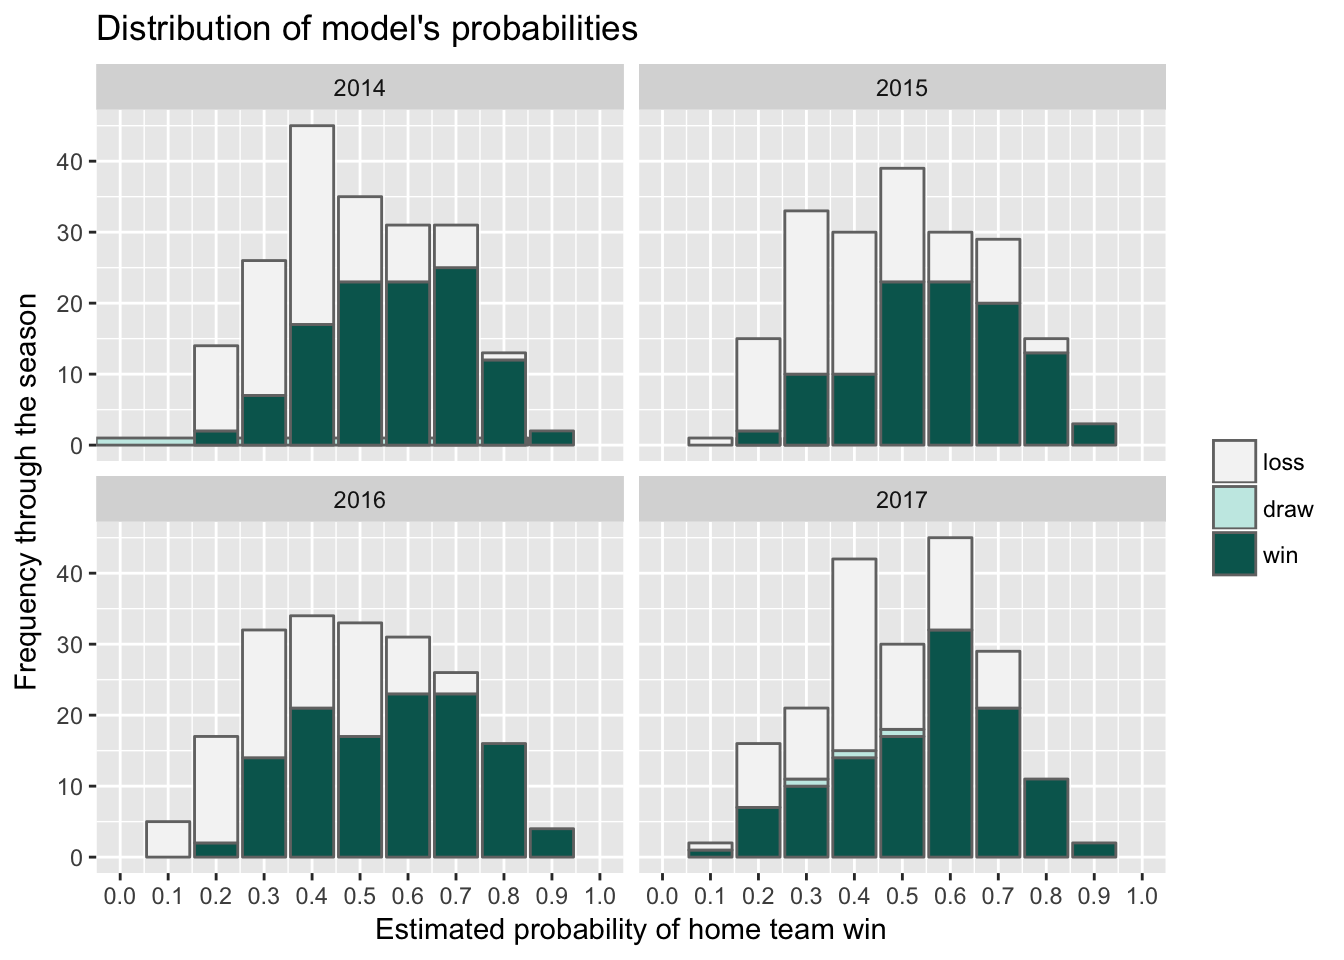
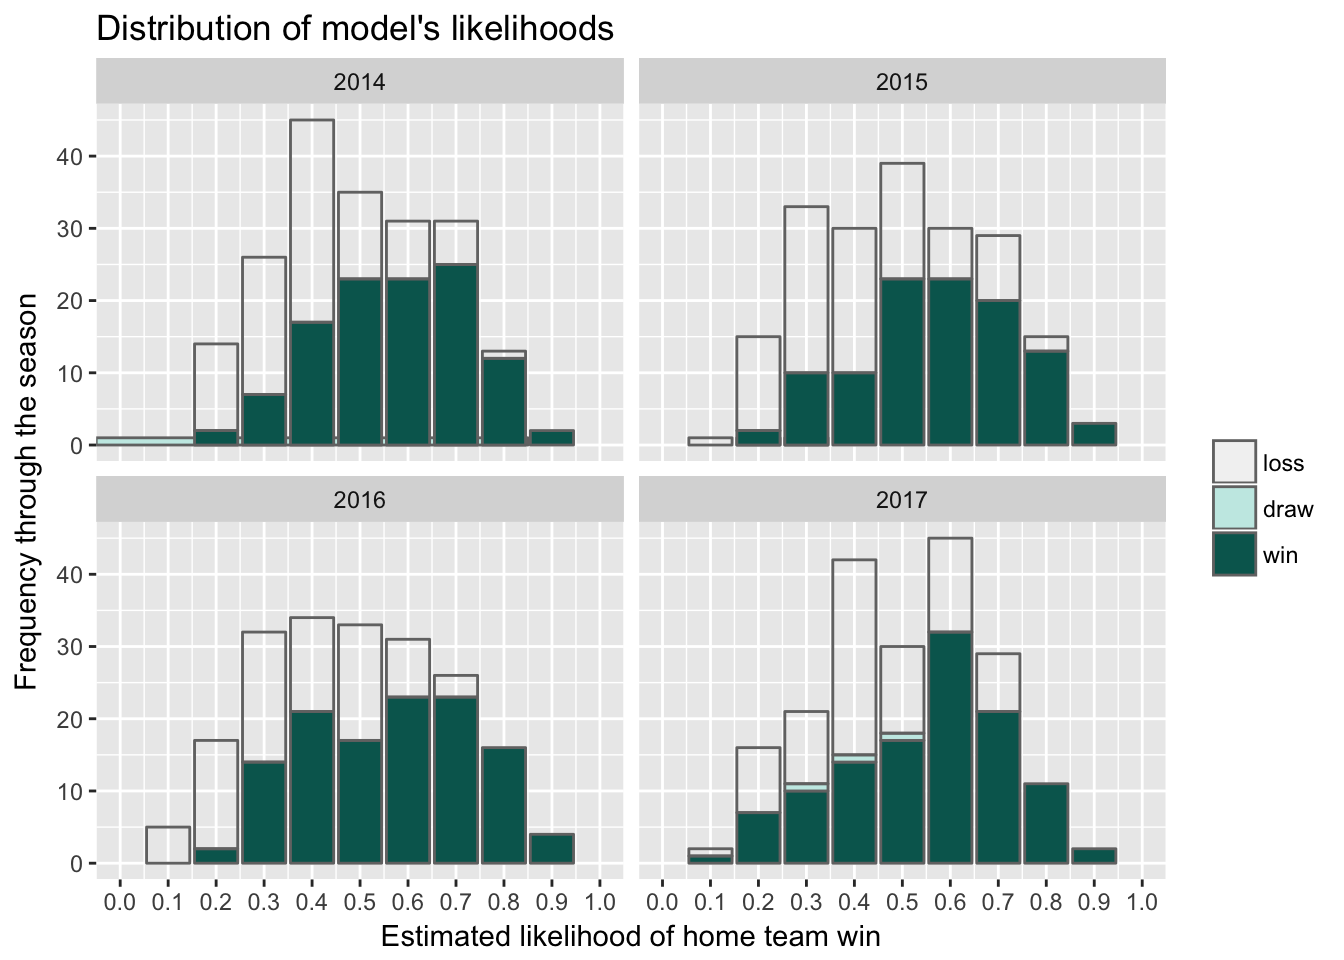
Revisions to AFL Tipping V1

diff --git a/public/2018/03/12/afl-tipping-mark-1/index.html b/public/2018/03/12/afl-tipping-mark-1/index.html
@@ -48,7 +48,7 @@
   <h1> AFL Tipping Mark 1 </h1>
 
   <div id=sub-header>
-    James Northrop · 2018/03/12 · 10 minute read
+    James Northrop · 2018/03/12 · 13 minute read
   </div>
 
   <div class="entry-content">
@@ -94,9 +94,6 @@
 </li>
 <li>The number of days since each team’s previous match, which is usually between 6 and 8 days.</li>
 </ul>
-<p><strong>Scoring Accuracy</strong><br />
-Losing teams tend to see only about half of their scoring shots converted to goals, whereas winning teams tend to see 55% or more of their scoring shots converted as goals.</p>
-<p><img src="../../../../post/2018-03-12-afl-tipping-mark-1_files/figure-html/Scoring%20accuracy%20plot-1.png" width="672" /></p>
 </div>
 <div id="the-tipping-model" class="section level2">
 <h2>The Tipping Model</h2>
@@ -107,35 +104,32 @@ Losing teams tend to see only about half of their scoring shots converted to goa
 <p>As it happened, Port Adelaide won the match by 28 points, so the model updated the ratings of Sydney and Port Adelaide to 1648 and 1549, an adjustment of 19 points up or down for both teams. If Port Adelaide had won by even more, the adjustment would be even more.</p>
 <p>The tipping model is a variation on the commonly used <a href="https://en.wikipedia.org/wiki/Elo_rating_system">Elo rating system</a>, variations of which are used by FIFA for their world rankings and the popular Nate Silver’s <a href="https://fivethirtyeight.com/features/how-we-calculate-nba-elo-ratings/">FiveThirtyEight</a>. My model was adapted from these sites and in particular from <a href="https://thearcfooty.com/2016/12/29/introducing-the-arcs-ratings-system/">The Arc Footy, graphed</a> site. As The Arc suggests, Elo is a solid and relatively simple general purpose model that produces good estimates of margins and likelihood of winning, though it is less accurate than more advanced algorithms.</p>
 <p><strong>Ratings Ladder at the end of 2017 Home and Away Season</strong></p>
-<p>This chart shows the ratings at the end of the 2017 Home and Away Season, i.e. before the finals. AFL fans may be surprised to see that Richmond is only fourth on this ladder, but it is worth remembering that Richmond were only 3rd on the ladder with a modest percentage of 118% (flattered by 2 convincing wins in the last 2 rounds). In summary, Richmond won almost all of the games it was expected to but had fewer strong wins. It may also surprise to see Sydney second on the rankings when they finished 6th on the AFL ladder. However, Sydney started the sesaon quite slowly and finished very strongly with a percentage of 127%.</p>
+<p>This chart shows the ratings at the end of the 2017 Home and Away Season, i.e. before the finals. AFL fans may be surprised to see that Richmond is only fourth on this ladder, but it is worth remembering that Richmond were only 3rd on the official AFL ladder with a modest percentage of 118% (flattered by 2 convincing wins in the last 2 rounds). In summary, Richmond won almost all of the games it was expected to but had fewer strong wins. It may also surprise to see Sydney second on the rankings when they finished 6th on the AFL ladder. However, Sydney started the sesaon quite slowly and finished very strongly with a percentage of 127%.</p>
 <p><img src="../../../../post/2018-03-12-afl-tipping-mark-1_files/figure-html/ratings.ladder-1.png" width="672" /></p>
 <p><img src="../../../../post/2018-03-12-afl-tipping-mark-1_files/figure-html/unnamed-chunk-1-1.png" width="1248" /></p>
-<p>For an interactive view of all teams, view my <a href="https://pennydropper.shinyapps.io/AFLRatings/">Shiny Page</a>.</p>
+<p>My <a href="https://pennydropper.shinyapps.io/AFLRatings/">Shiny Page</a> has an interactive view of the ratings for each team in each season since 2013.</p>
 </div>
 <div id="how-good-is-the-model" class="section level2">
 <h2>How Good is the Model?</h2>
 <p>Surprisingly good, is the short answer, given that I am yet to optimise the parameters or experiment with more sophisticated algorithms.</p>
-<div id="comparing-with-betting-agencies" class="section level3">
-<h3>Comparing with Betting Agencies</h3>
-<p>For this analysis, I made a number of comparisons with the odds and line margins offered by betting agencies using data downloaded from <a href="http://www.aussportsbetting.com/data/historical-afl-results-and-odds-data/">Australia Sports Betting</a>.</p>
+<p><strong>Comparing with Betting Agencies</strong> For this analysis, I made a number of comparisons with the odds and line margins offered by betting agencies using data downloaded from <a href="http://www.aussportsbetting.com/data/historical-afl-results-and-odds-data/">Australia Sports Betting</a>.</p>
 <p><strong>Results</strong><br />
 Out of the 4 seasons from 2014 to 2017, the model exceeded the betting agencies in 2014 and almost tied in 2017.</p>
 <p><img src="../../../../post/2018-03-12-afl-tipping-mark-1_files/figure-html/multi-season.res.tips-1.png" width="672" /></p>
 <p><strong>Predicting the margin</strong><br />
-In terms of predicting the game margins, the model and betting agencies are remarkably close. In most season’s, the betting agencies’ margin estimates are slightly better though the model peformed better in the 2017 season. <img src="../../../../post/2018-03-12-afl-tipping-mark-1_files/figure-html/multi-season.res.marg-1.png" width="672" /></p>
+In terms of predicting the game margins, the model and betting agencies are remarkably close. In most season’s, the betting agencies’ margin estimates are slightly better though the model peformed better in the 2017 season. <img src="../../../../post/2018-03-12-afl-tipping-mark-1_files/figure-html/multi-season.res.marg-1.png" width="672" /> (Refer to the end of this blog for how to read box plots.)</p>
 <p><strong>Game by Game Review</strong></p>
 <p>This comprehensive plot shows all 198 games in the 2017 season.</p>
 <p>Each game is represented as a box and is colour coded to show if the model predicted correctly, whereas the box’s margin indicates if the betting agencies tipped the game correctly.</p>
 <p>Inside each box are 3 bars, representing the final margin in favour of the team, the model’s predicted margin and the betting agencies’ predicted margin.</p>
 <p>This chart shows that there are very few sequences of incorrect tips by the model. Sydney was incorrectly tipped for rounds 1 to 6 which was due to their surprisingly slow start given their momentum at the end of the 2016 season. The model also incorrectly tipped the Collingwood games from rounds 2 to 7, which was matched by the betting agencie’s incorrect tips.</p>
-<p>&lt;&lt;&lt;&lt;&lt;&lt;&lt; HEAD <img src="../../../../post/2018-03-12-afl-tipping-mark-1_files/figure-html/unnamed-chunk-2-1.png" width="1248" /></p>
-</div>
+<p><img src="../../../../post/2018-03-12-afl-tipping-mark-1_files/figure-html/unnamed-chunk-2-1.png" width="1248" /></p>
 <div id="performance-of-estimated-likelihood" class="section level3">
 <h3>Performance of Estimated Likelihood</h3>
 <p>These plots show that the distribution of estimated likelihoods (probabilities) is approximately bell shaped, which is to be expected. Fortunately, the games with a higher estimated likelihood seem to associate with more wins, which is to be expected.</p>
 <p><img src="../../../../post/2018-03-12-afl-tipping-mark-1_files/figure-html/hist.probs-1.png" width="672" /></p>
 <p>This plot shows the prevalence of home teams winning, based on the estimated likelihood of the home team winning. For instance, there are 10 games out of 198 in 2017 where the estimated likelihood of the home team winning was around 0.20, meaning that we would expect the home team to win 2 of those 10 games (20%). I actual fact, 6 of those 10 home teams with 0.2 likelihood of winning actually won (60%).</p>
-<p>The diagonal line represents where we expect the bars to end.</p>
+<p>The diagonal line represents where we expect the points to fall.</p>
 <p><img src="../../../../post/2018-03-12-afl-tipping-mark-1_files/figure-html/plot%20probs%20vs%20act-1.png" width="672" /> There are a few interesting features in this chart:</p>
 <ul>
 <li>There are no likelihoods less than 0.075 and none greater than 0.875, suggesting that the model may struggle with outliers.</li>
@@ -145,12 +139,12 @@ In terms of predicting the game margins, the model and betting agencies are rema
 </li>
 <li>This suggests that there is a bias to underestimating the home team’s likelihood, which is plausible as the model is yet to factor in home-ground advantage.</li>
 </ul></li>
-<li>That said, the 3 likelihoods which are clearly below the 50-50 line are 0.35 to 0.45.
+<li>That said, the 3 likelihood ranges clearly below the 50-50 line are 0.35 to 0.45.
 <ul>
 <li>If the model “corrected” for these likelihoods, then these tips would swing from correctly forecasting a loss to incorrectly forecasting a win.</li>
 </ul></li>
 </ul>
-<p><strong>Probability Performance for 4 Seasons</strong></p>
+<p><strong>Likelihood Performance for 4 Seasons</strong></p>
 <p>A review of the likelihoods over the 4 seasons suggests that 2017 with it’s tendency to understate the likelihood may be an anomoly. 2016 is similar though 2015 appears to overestimate likelihoods and 2014 appears more like what we expect. <img src="../../../../post/2018-03-12-afl-tipping-mark-1_files/figure-html/prob.perf.4.seasons-1.png" width="672" /></p>
 <div id="final-word-on-the-model" class="section level4">
 <h4>Final word on the model</h4>
@@ -182,6 +176,78 @@ There are features of some of these charts that I’m using for my first time. S
 <p>One irritation with the AFL competition is the difficulty in sourcing useful data to feed the amatear analyst. As an example, I had to resort to scraping match results from an unoffical website, <a href="https://afltables.com/afl/afl_index.html">AFL Tables</a>, even though many high profile professional sports make the data freely available to download.</p>
 <p>The league, most clubs and the media subscribe to <a href="https://www.championdata.com/index.php/sport/afl.html">Champion Data</a> and some of the data is available in untidy format in some newspapers, though the data is difficult to scrape from websites and, in any case, is subject to copyright.</p>
 <p>One day, I would love to analyse data on inside-50s, tackles, effective disposals, contested ball, disposal efficiency and even scoring shot locations.</p>
+</div>
+<div id="footnotes" class="section level2">
+<h2>Footnotes</h2>
+<p>Code for this analysis is located <a href="https://github.com/pennydropper/AFLV1">here</a> on GitHub.</p>
+<div id="scoring-accuracy" class="section level3">
+<h3>Scoring Accuracy</h3>
+<p>Losing teams tend to see only about half of their scoring shots converted to goals, whereas winning teams tend to see 55% or more of their scoring shots converted as goals.</p>
+<p><img src="../../../../post/2018-03-12-afl-tipping-mark-1_files/figure-html/Scoring%20accuracy%20plot-1.png" width="672" /></p>
+<p>There definitely is an association between accuracy and winning for Melbourne, which is expected.</p>
+<p>How is the distribution of relative accuracy?</p>
+<pre class="r"><code>q4.acc.df() %&gt;%
+  group_by(tm, tm.res, seas) %&gt;%
+  mutate(games = n()) %&gt;%
+  ungroup() %&gt;%
+  filter(tm.res != &quot;draw&quot;) %&gt;% # ,
+         # tm == &quot;Melbourne&quot;) %&gt;%
+  ggplot(aes(x = tm.res, y = tm.rel.acc)) +
+  geom_hline(aes(yintercept = 0), colour = &quot;grey&quot;) +
+  geom_boxplot() +
+  facet_grid(~ seas) +
+  # geom_text(aes(label = games, y = -0.6)) +
+  scale_y_continuous(labels = scales::percent) +
+  labs(title = &quot;Relative scoring accuracy for all teams&quot;,
+       subtitle = &quot;Percentage of scoring shots that are goals, relative to opponent&quot;,
+       y = &quot;Teams scoring accuracy rel to opponent&quot;,
+       x = &quot;&quot;)</code></pre>
+<p><img src="../../../../post/2018-03-12-afl-tipping-mark-1_files/figure-html/Relative%20scoring%20accuracy-1.png" width="672" /> Not surprisingly, there is a clear association between the relative scoring accuracy and whether a team wins the match.</p>
+<p>Looking at a scatterplot of the share of the total scoring shots versus the score of the total score, there is a small number of games where teams had a smaller number of scoring shots but still won the game.</p>
+<pre class="r"><code>q4.acc.df() %&gt;%
+  filter(seas == 2017) %&gt;%
+  ggplot((aes(x = tm.Q4.ratio.sh, y = tm.Q4.ratio.sc))) +
+  geom_point(aes(colour = tm.res)) +
+  # geom_abline(aes(intercept = 0, slope = 1), linetype = 2) +
+  geom_vline(aes(xintercept = 0.5), linetype = 2) +
+  geom_hline(aes(yintercept = 0.5), linetype = 2) +
+  labs(title = &quot;Ratio of scoring shots vs ratio of final scores in 2017&quot;,
+       x = &quot;share of total scoring shots for the game&quot;,
+       y = &quot;share of total scores for the game&quot;,
+       colour = &quot;result&quot;) +
+  geom_text(aes(label = &quot;more shots but lost&quot;, x = 0.9,
+                y = 0.45), data = tibble(x = 1), vjust = &quot;bottom&quot;, hjust = &quot;right&quot;) +
+  geom_text(aes(label = &quot;more shots and won&quot;, x = 0.9,
+                y = 0.55), data = tibble(x = 1), vjust = &quot;top&quot;, hjust = &quot;right&quot;) +
+  geom_text(aes(label = &quot;fewer shots and lost&quot;, x = 0.1,
+                y = 0.45), data = tibble(x = 1), vjust = &quot;bottom&quot;, hjust = &quot;left&quot;) +
+  geom_text(aes(label = &quot;fewer shots but won&quot;, x = 0.1,
+                y = 0.55), data = tibble(x = 1), vjust = &quot;top&quot;, hjust = &quot;left&quot;)</code></pre>
+<p><img src="../../../../post/2018-03-12-afl-tipping-mark-1_files/figure-html/scoring%20shots%20vs%20total%20scores-1.png" width="672" /></p>
+<p>About 1 game in 9 sees a team win despite fewer scoring shots.</p>
+<pre class="r"><code>q4.acc.df() %&gt;%
+  filter(tm.Q4.ratio.sh &lt; 0.5, tm.Q4.ratio.sc &gt;= 0.5) %&gt;%
+  ggplot((aes(x = seas))) +
+  geom_bar() +
+  coord_flip() +
+  scale_y_continuous(&quot;number of games&quot;, position = &quot;right&quot;,
+                     sec.axis = sec_axis(trans = (~. / 198), labels = scales::percent,
+                                         name = &quot;Share of all games&quot;)) +
+  labs(title = &quot;Games won by the team with fewer scoring shots&quot;,
+       subtitle = &quot;About 1 game in 9 sees a team win despite fewer scoring shots&quot;,
+       x = &quot;season&quot;)</code></pre>
+<p><img src="../../../../post/2018-03-12-afl-tipping-mark-1_files/figure-html/games%20won%20with%20fewer%20scoring%20shots-1.png" width="672" /></p>
+</div>
+<div id="explanation-of-box-plots" class="section level3">
+<h3>Explanation of Box Plots</h3>
+<p>Box plots are extremely frequently used by data scientists to display how data is distributed.</p>
+<p>As an example, the chart here shows the distribution of scores for the 2017 competition found randomly on the internet. The winner of the competition scoreed 135 and the largest group scored around 125. There was a group clustered around 85, which possibly represents entrants who lost interest early in the season and failed to submit tips.</p>
+<p>The marks on the x-axis show the scores recorded, and the red marks represent the first 25% of entrants, the median score and the 75-percentile of entrants.</p>
+<p><img src="../../../../post/2018-03-12-afl-tipping-mark-1_files/figure-html/tipping%20scores%20bar%20chart-1.png" width="672" /></p>
+<p>This chart shows the distribution represented as a box plot. The lines on either side of the box represent the top and bottom 25% of scores, and the vertical line in the middle represents the median. Sometimes, the average of the scores may be shown.</p>
+<p>Box plots allow a simpler visualisation of the distribution and take less space than a bar chart or histogram. Obviously, some insights are not shown, such as the polarisation of scores in this case, but a good data scientist will show more details in a case-by-case basis.</p>
+<p><img src="../../../../post/2018-03-12-afl-tipping-mark-1_files/figure-html/tipping%20scores%20box%20plot-1.png" width="672" /></p>
+</div>
 </div>
 
   </div>
